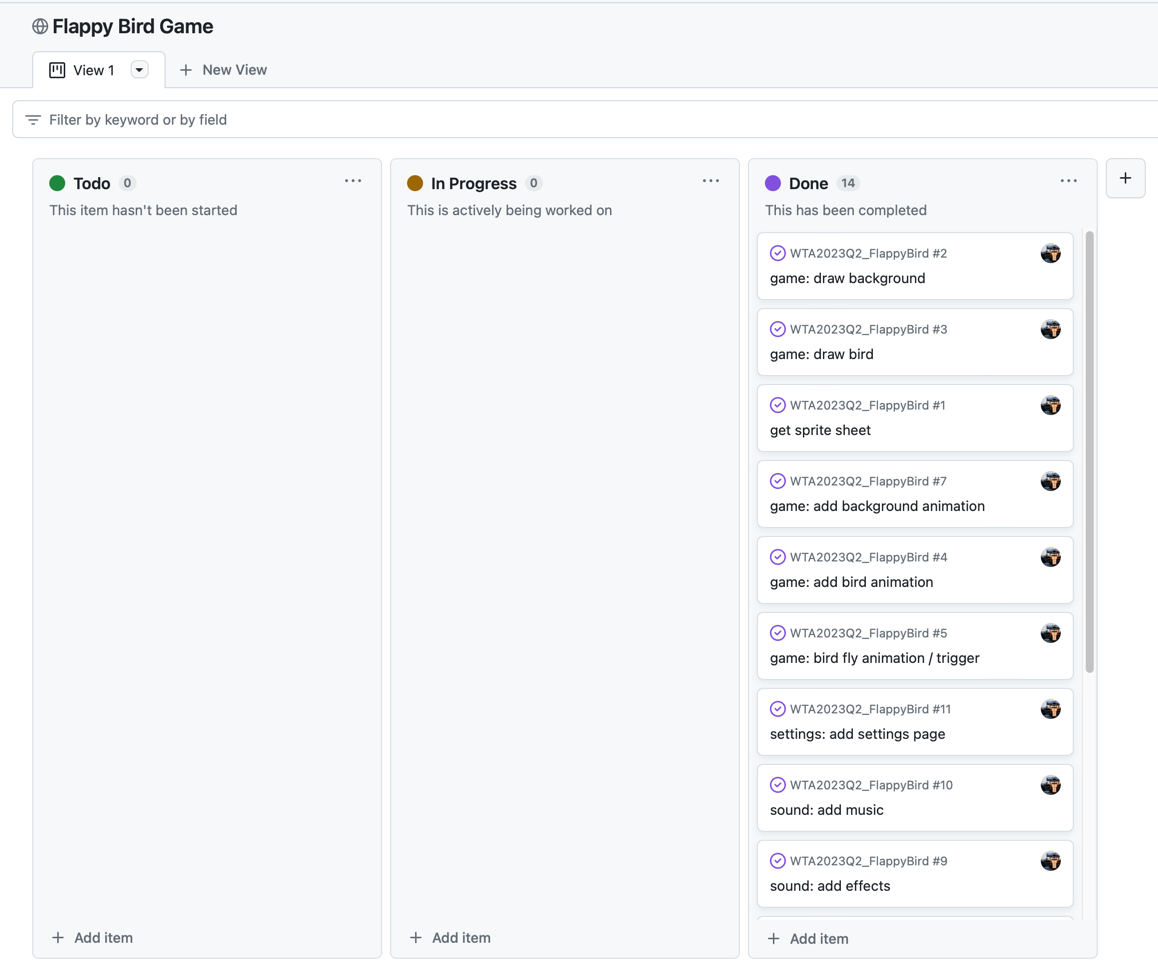
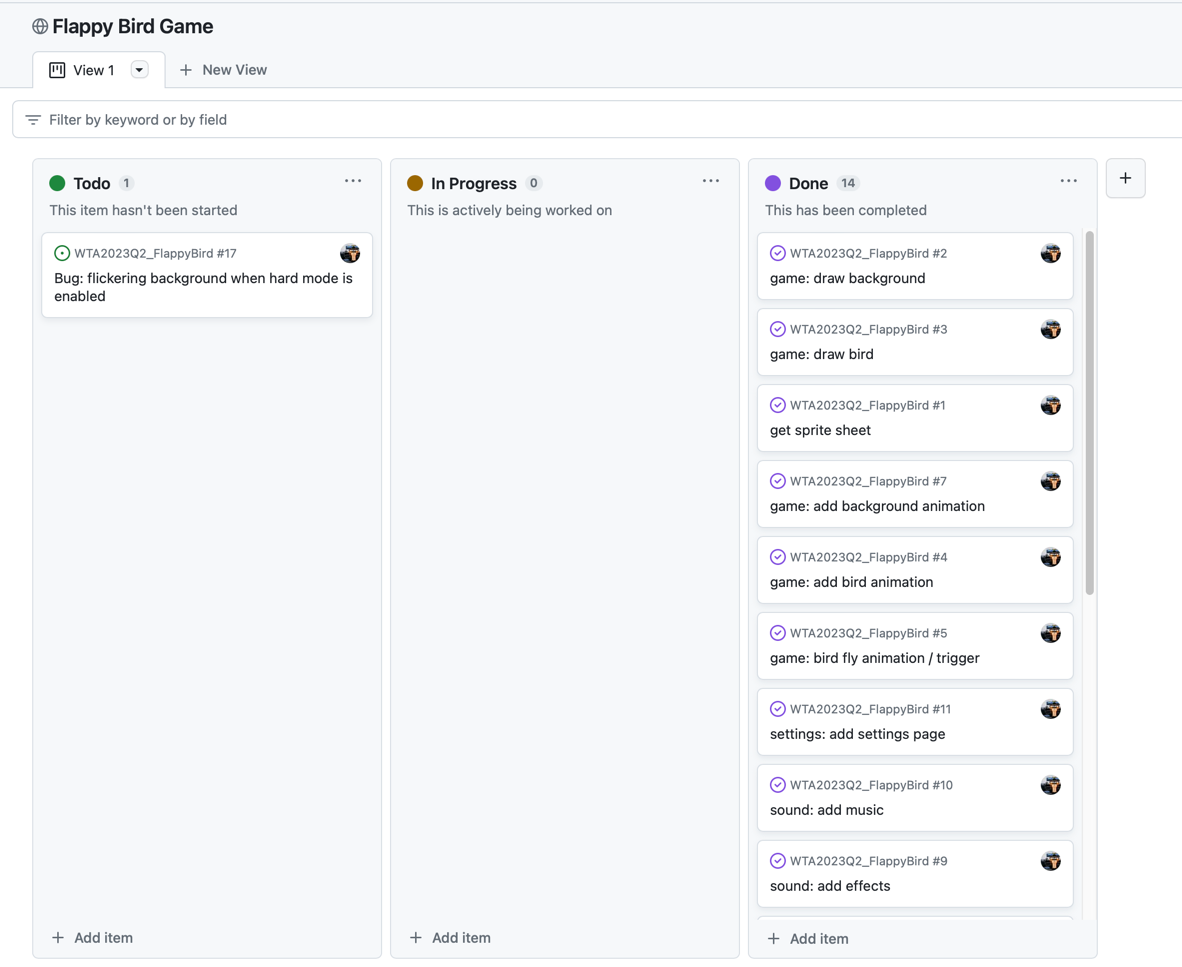
update README.md add project plan picture

diff --git a/README.md b/README.md
@@ -26,7 +26,7 @@ Alternative: [Play the game online](https://flappybird.fambreit.com/)
 
 ## Known Bugs
 
-- In hard mode enabled, the background may flicker when the game speed increases
+- [In hard mode enabled, the background may flicker when the game speed increases](https://github.com/flnbrt/WTA2023Q2_FlappyBird/issues/17)
 
 ## Project Plan
 
